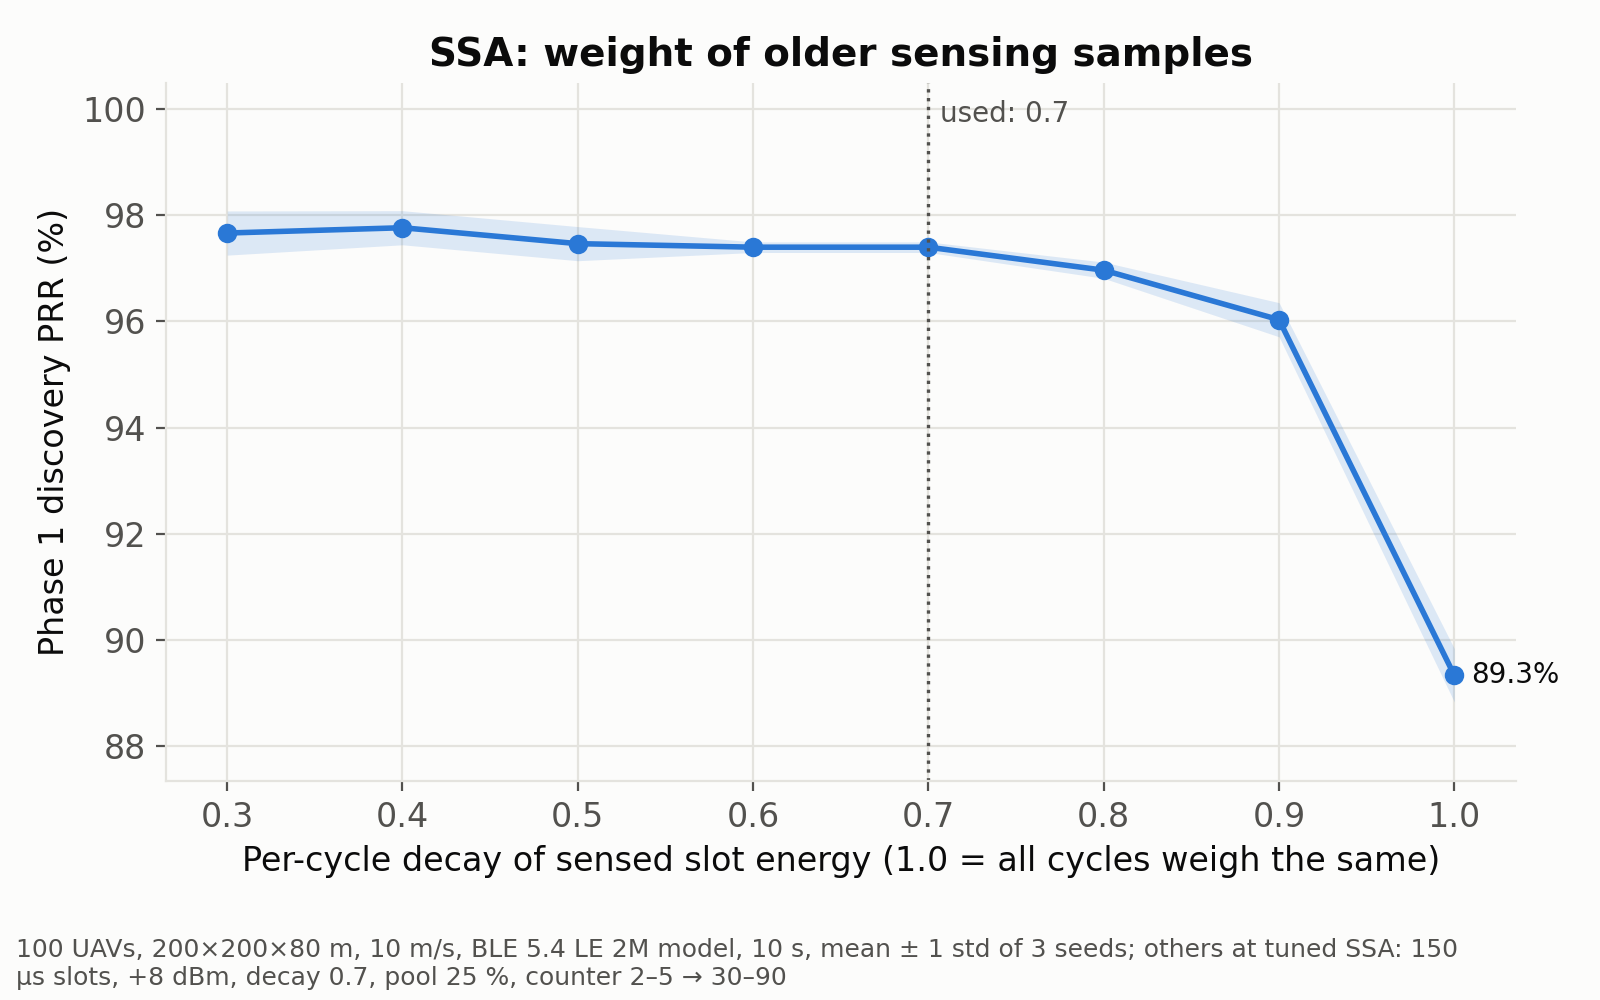
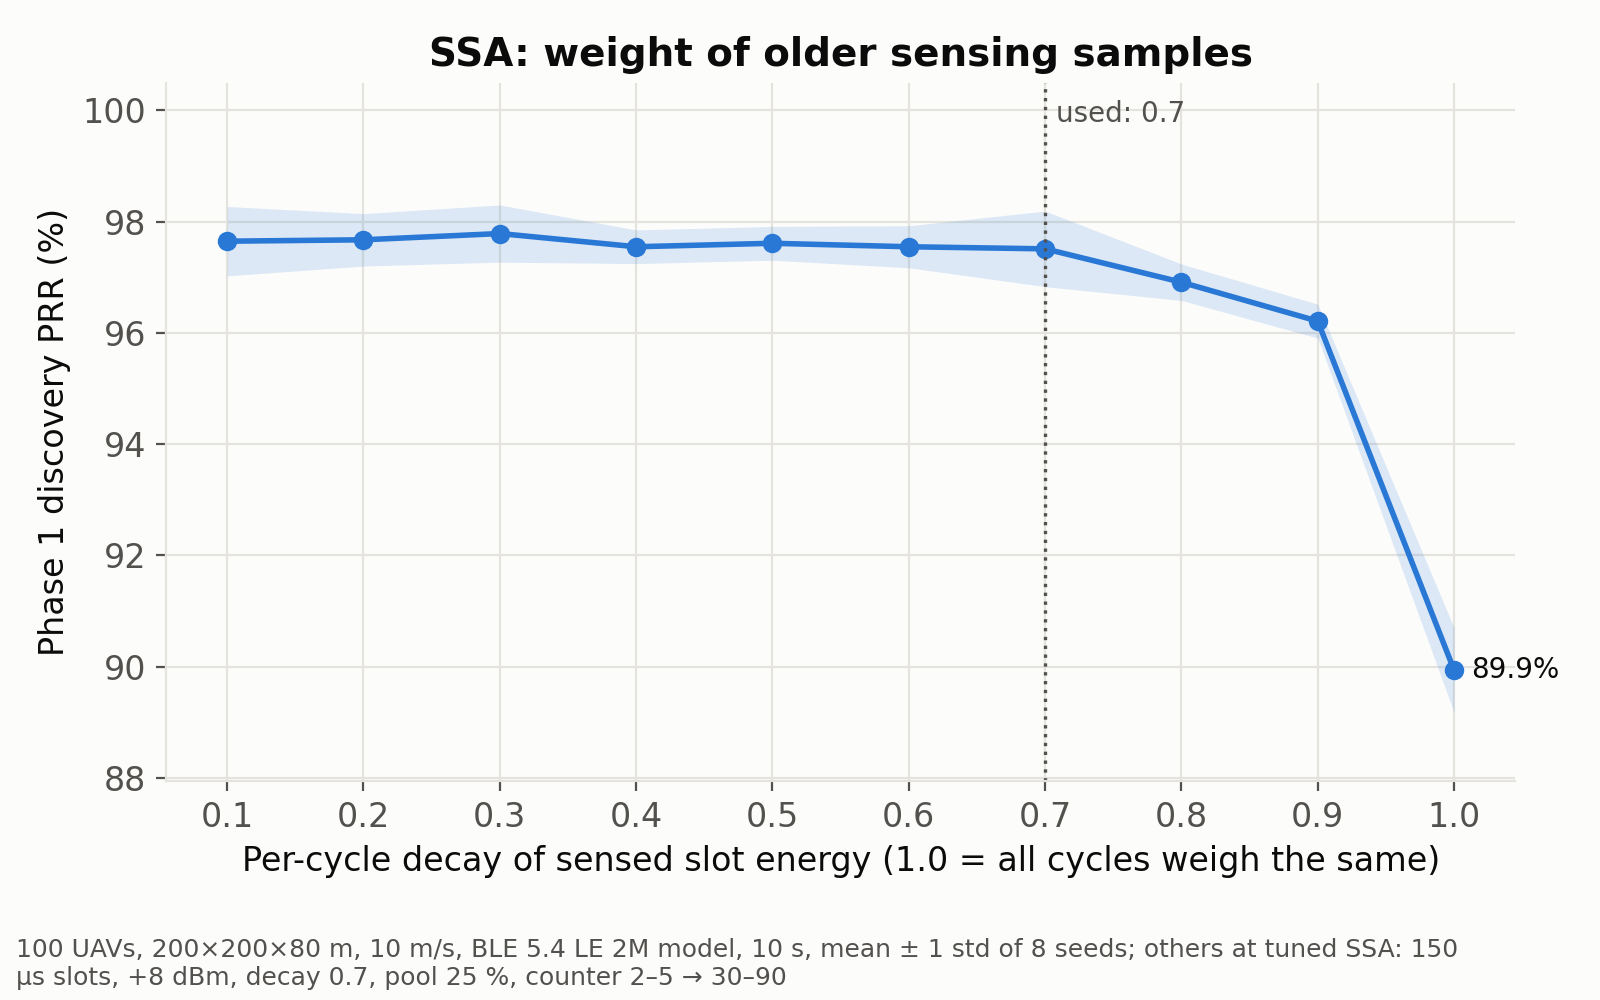
data: decay sweep 0.1-1.0 with 8 seeds (plateau 0.1-0.7, drops from 0.8)

diff --git a/run_p1_param_sweeps.py b/run_p1_param_sweeps.py
@@ -76,7 +76,7 @@ def frange(lo, hi, step):
 # exp -> list of (line, x, flags)
 EXPS = {
     "pool": [("SSA", x, ssa(p1PoolFrac=x)) for x in [0.05, 0.10, 0.15, 0.25, 0.35, 0.45, 0.60]],
-    "decay": [("SSA", x, ssa(p1SenseDecay=x)) for x in [0.3, 0.4, 0.5, 0.6, 0.7, 0.8, 0.9, 1.0]],
+    "decay": [("SSA", x, ssa(p1SenseDecay=x)) for x in [0.1, 0.2, 0.3, 0.4, 0.5, 0.6, 0.7, 0.8, 0.9, 1.0]],
     "counter": ([("two-stage (first 2-5)", n, ssa(p1ReselMin=n, p1ReselMax=3 * n))
                  for n in [1, 2, 5, 10, 20, 30, 50, 100]] +
                 [("single-stage", n, ssa(p1ReselMin=n, p1ReselMax=3 * n, p1ReselInitMin=-1, p1ReselInitMax=-1))

diff --git a/plot_p1_sweeps.py b/plot_p1_sweeps.py
@@ -119,7 +119,7 @@ if ("decay", "SSA") in data:
     ax.set_ylim(min(m) - 2, 100.5)
     mark(ax, 0.7, "used: 0.7")
     ax.set_title("SSA: weight of older sensing samples")
-    finish(fig, "s3_decay.png", f"{NOTE}; {TUNED}")
+    finish(fig, "s3_decay.png", f"{NOTE.replace('3 seeds', '8 seeds')}; {TUNED}")
 
 # 4) slot width / slot count
 if ("slot", "perfect sync") in data:
